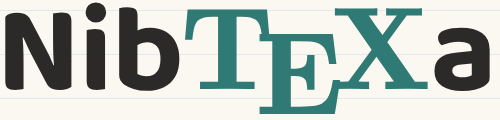
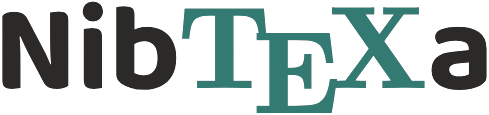
Give the website's wordmark a dark-mode version, without the box

diff --git a/docs/stylesheets/extra.css b/docs/stylesheets/extra.css
@@ -72,10 +72,10 @@
   background: none;
 }
 
-[data-md-color-scheme="slate"] .md-typeset .nib-wordmark {
-  padding: 0.4rem 0.7rem;
-  border-radius: 0.6rem;
-  background: var(--nib-paper);
+/* One wordmark per scheme, the same size, so that switching moves nothing. */
+[data-md-color-scheme="default"] .md-typeset .nib-wordmark-dark,
+[data-md-color-scheme="slate"] .md-typeset .nib-wordmark-light {
+  display: none;
 }
 
 .md-typeset .nib-hero h1 {

diff --git a/docs/index.md b/docs/index.md
@@ -11,7 +11,8 @@ hide:
 
 <div class="nib-hero-text" markdown>
 
-<img src="assets/images/wordmark.png" alt="NibTeXa" class="nib-wordmark">
+<img src="assets/images/wordmark.png" alt="NibTeXa" class="nib-wordmark nib-wordmark-light">
+<img src="assets/images/wordmark-dark.png" alt="NibTeXa" class="nib-wordmark nib-wordmark-dark">
 
 # Write by hand. Get clean LaTeX.
 
